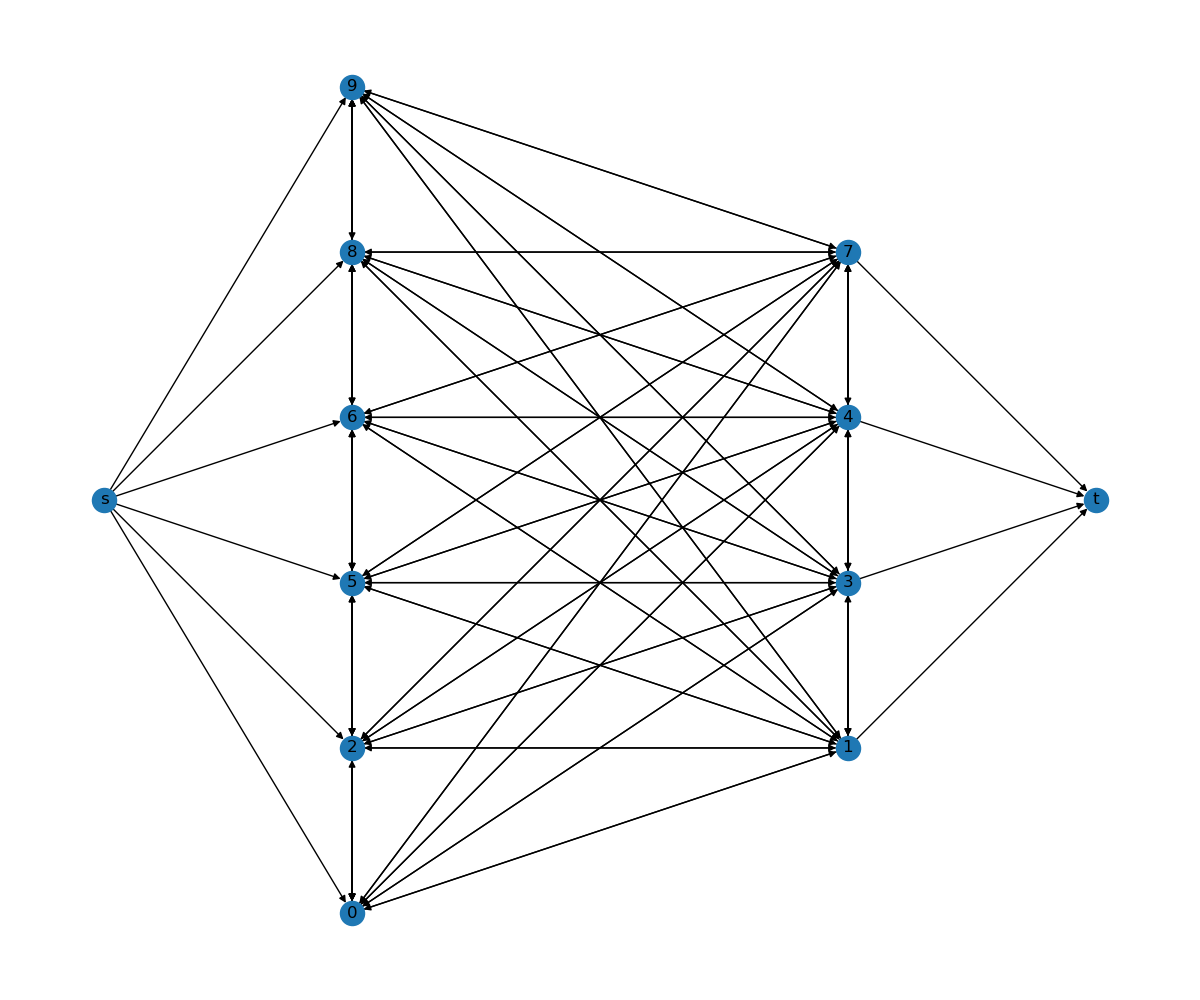
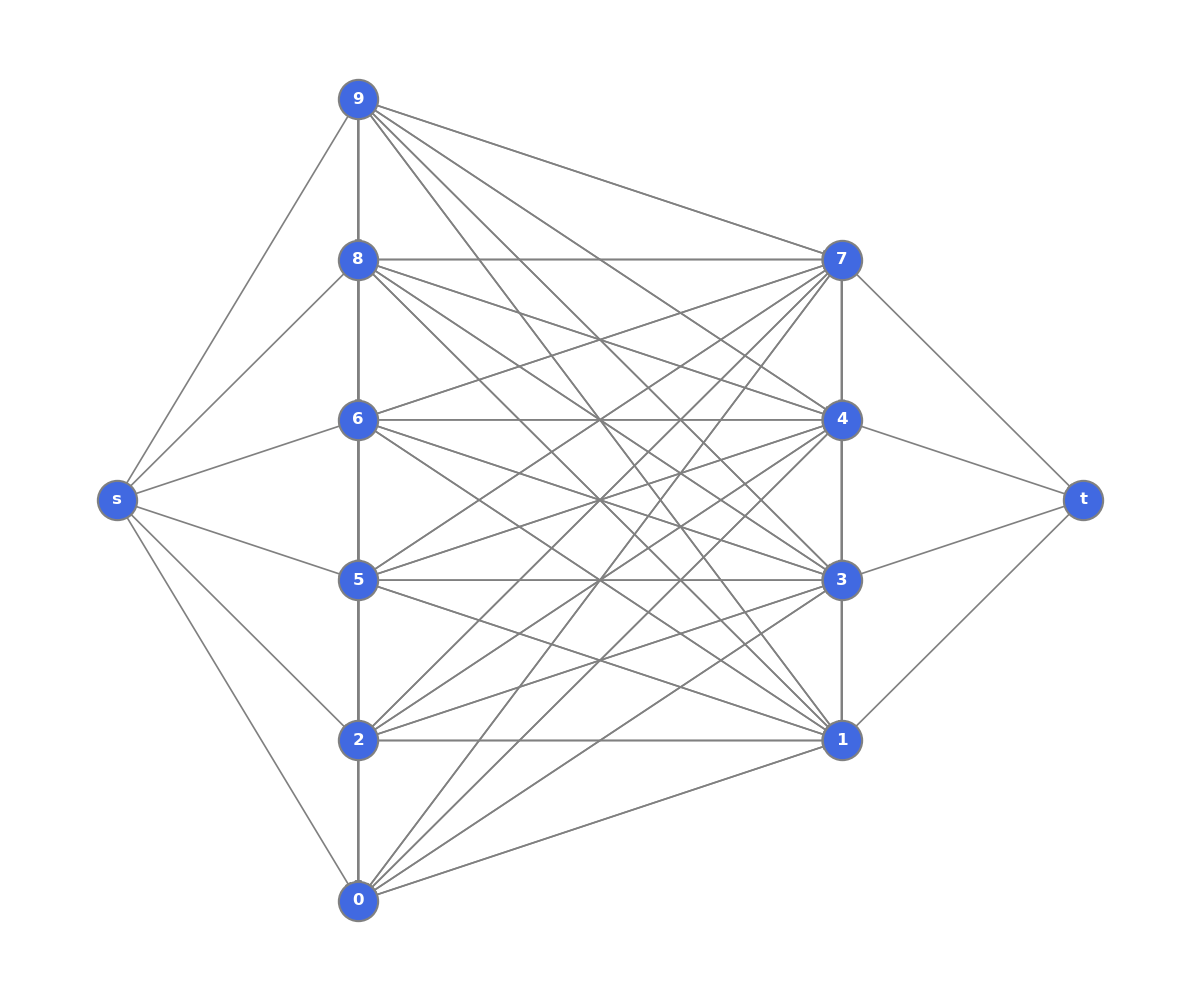
made plots look nice

diff --git a/hw1/hw1.py b/hw1/hw1.py
@@ -1,11 +1,22 @@
 import numpy as np
 import matplotlib.pyplot as plt
 
-from HW1_2026.utils import flow_layout, draw_flow
+from utils_altered import flow_layout, draw_flow
+
+def draw_graph(graph, positions):
+    # drawing nodes
+    nx.draw_networkx_nodes(graph, positions, node_size = 800, node_color = 'royalblue', edgecolors = 'gray', linewidths=1.5)
+    # drawing node labels
+    nx.draw_networkx_labels(graph, positions, font_size = 12, font_color = 'white', font_weight = 'bold')
+    # drawing edges
+    nx.draw_networkx_edges(graph, positions, edge_color = 'gray', width = 1.2)
+    
+    plt.tight_layout()
+    plt.axis('off')
 
 import networkx as nx
 if __name__ == "__main__":
-    print('-----------------------------------------------------')
+    print('-----------------------------------------------------') 
     print('Problem 4')
     print("\n=====================================")
     print("     Part (a): Plotting IEEE30       ")
@@ -13,10 +24,13 @@ if __name__ == "__main__":
     fig = plt.figure(figsize=  (12, 10))
     graph30 = nx.read_edgelist("HW1_2026/ieee30.edgelist")
     positions30 = nx.spring_layout(graph30, k = 0.3, seed = 2026, iterations = 50)
-    nx.draw(graph30, positions30, with_labels=True)
+    
+    draw_graph(graph30, positions30)
+    
     plt.savefig("ieee30_graph.png")
     plt.close()
     
+    # Finding degree and density of plot
     degree_sequence = [d for n,d in graph30.degree]
     max_degree = max(degree_sequence)
     print(f"Maximum degree: {max(degree_sequence)} at node(s): {[n+1 for n,d in enumerate(degree_sequence) if d == max_degree]}")
@@ -28,7 +42,9 @@ if __name__ == "__main__":
     fig = plt.figure(figsize=(12, 10))
     graph123 = nx.read_weighted_edgelist("HW1_2026/ieee123.edgelist")
     positions123 = nx.nx_agraph.graphviz_layout(graph123, prog="dot")
-    nx.draw(graph123, positions123, with_labels=True, font_size=15)
+    
+    draw_graph(graph123, positions123)
+    
     plt.savefig('ieee123_graph.png')
     plt.close()
     
@@ -60,8 +76,11 @@ if __name__ == "__main__":
     cycle_path = nx.find_cycle(graph30)
     print(f'IEEE30 Cycle Example:\t{cycle_path}')
     fig = plt.figure(figsize=  (12, 10))
-    nx.draw(graph30, positions30, with_labels=True)
-    nx.draw_networkx_edges(graph30, positions30, edgelist=cycle_path, edge_color = 'green', width=10)
+    draw_graph(graph30, positions30)
+    
+    # drawing nodes and edges in path
+    nx.draw_networkx_nodes(graph30, positions30, nodelist=[u for u,v in cycle_path], edgecolors='green', node_size=800, linewidths=3)
+    nx.draw_networkx_edges(graph30, positions30, edgelist=cycle_path, edge_color = 'green', width=5)
     plt.savefig('ieee30_cycle.png')
     plt.close()    
         
@@ -75,15 +94,15 @@ if __name__ == "__main__":
     print("=====================================")
     
     cut_edges = nx.minimum_edge_cut(graph30)
-    bridges = nx.bridges(graph30)
+    bridges = list(nx.bridges(graph30))
     fig = plt.figure(figsize = (12, 10))
-    nx.draw(graph30, positions30, with_labels=True)
-    nx.draw_networkx_edges(graph30, positions30, edgelist=list(bridges), edge_color = 'green', width=10)
+    draw_graph(graph30, positions30)  
+    nx.draw_networkx_edges(graph30, positions30, edgelist=bridges, edge_color = 'red', width=5)
     plt.savefig('ieee30_cuts.png')
     plt.close()
     
     print(f'IEEE30 Cut Example:\t{list(cut_edges)}')
-    print(f'IEEE30 Bridge Example:\t{list(bridges)}')
+    print(f'IEEE30 Bridge Example:\t{bridges}')
 
     print("\n=====================================")
     print("     Part (f): Handshaking Theorem   ")
@@ -105,8 +124,8 @@ if __name__ == "__main__":
     
     print(f" The shortest path from {initial_node} to {terminal_node} is {shortest_path}")
     fig = plt.figure(figsize=  (12, 10))
-    nx.draw(graph30, positions30, with_labels = True)
-    nx.draw_networkx_edges(graph30, positions30, edgelist =shortest_path_edges, edge_color='green', width = 10)
+    draw_graph(graph30, positions30)
+    nx.draw_networkx_edges(graph30, positions30, edgelist =shortest_path_edges, edge_color='green', width = 5)
     plt.savefig('ieee30_shortest_path.png')
     
     plt.close()
@@ -142,10 +161,12 @@ if __name__ == "__main__":
         
     pos = flow_layout(G, 's', 't')
     fig = plt.figure(figsize = (12, 10))
-    nx.draw(G, pos, with_labels=True)
+    draw_graph(G, pos)
     plt.savefig('flow_network.png')
     plt.close()
     
     max_flow = nx.maximum_flow(G, 's', 't')
-    draw_flow(G, max_flow[1], dict(figsize = (12, 10)))
+    draw_flow(G, max_flow[1], dict(figsize = (12, 10)), dict(font_size = 20))
+    plt.axis('off')
+    plt.tight_layout()
     plt.savefig('flow_network_solution.png')

diff --git a/hw1/utils_altered.py b/hw1/utils_altered.py
@@ -1,0 +1,81 @@
+import networkx as nx
+from typing import Union
+import numpy as np
+import pandas as pd
+import matplotlib.pyplot as plt
+
+
+def flow_layout(graph: nx.DiGraph, _s: Union[str, int] = "s", _t: Union[str, int] = "t") -> dict:
+    """Position nodes other than the source and target in two straight lines.
+    The left line includes all the successors of the source node and the right line
+    includes all the predecessors of the target node. The source node is then placed
+    to the left of the midpoint of the first line and the target node is placed to the
+    right of the midpoint of the second line.
+
+    Args:
+        graph (nx.DiGraph): The flow network that must include the passed source node _s
+        and the passed target node _t.
+        _s (Union[str, int], optional): The source node. Defaults to "s".
+        _t (Union[str, int], optional): The target node. Defaults to "t".
+
+    Returns:
+        dict: A dictionary of positions keyed by node. 
+
+    Examples::
+        >>> G = <a flow network>
+        >>> pos = flow_layout(G, "s", "t")
+        >>> nx.draw(G, pos=pos)
+
+    """
+    pos = nx.bipartite_layout(graph, graph.successors(_s))
+    # t centers
+    s_center = np.mean([pos[i][1] for i in graph.successors(_s)])
+    t_center = np.mean([pos[i][1] for i in graph.predecessors(_t)])
+    diff = t_center - s_center
+    for i in graph.predecessors(_t):
+        pos[i][1] -= diff
+    t_center -= diff
+    pos[_s] = [np.mean([pos[i][0]
+                        for i in graph.successors(_s)]) - 1, s_center]
+    pos[_t] = [np.mean([pos[i][0]
+                        for i in graph.predecessors(_t)]) + 1, t_center]
+    return pos
+
+
+def draw_flow(graph: nx.DiGraph, flowDict: dict = None, fig_kwargs: dict = {}, nx_kwargs: dict = {}) -> None:
+    """Draw the flow network highlighting the flows. 
+
+    Args:
+        graph (nx.DiGraph): The flow graph.
+        flowDict (dict, optional): The flowDict. Defaults to None. If nothing is passed, 
+        a flow dictionary will be calculated using nx.maximum_flow using source node
+        "s", target node "t", and capacity attribute "capacity".
+        fig_kwargs (dict, optional): Extra arguments to control the figure. Defaults to {}.
+        nx_kwargs (dict, optional): Extra arguments to control the network figures. Defaults to {}.
+
+    Examples::
+        Without passing a flow dictionary:
+            >>> draw_flow(G, fig_kwargs={"figsize":(10, 10)}, nx_kwargs={"font_size": 8})
+        Without passing a flow dictionary:
+            >>> G = <a flow network>
+            >>> flowVal, flowDict = nx.maximum_flow(G, "s", "t", capacity="capacity")
+            >>> draw_flow(G, flowDict=flowDict, fig_kwargs={"figsize":(10, 10)}, nx_kwargs={"font_size": 8})
+    """
+    if flowDict is None:
+        flowVal, flowDict = nx.maximum_flow(
+            graph, "s", "t", capacity="capacity")
+    pos = nx.get_edge_attributes(graph, "pos")
+    if not pos:
+        pos = flow_layout(graph)
+    H = nx.from_pandas_adjacency(
+        pd.DataFrame(flowDict, index=graph.nodes()).fillna(
+            0).T, create_using=nx.DiGraph
+    )
+    plt.figure(**fig_kwargs)
+    nx.draw_networkx_nodes(graph, pos, node_size = 800, node_color = 'royalblue', edgecolors = 'gray', linewidths=1.5)
+    nx.draw_networkx_labels(graph, pos, font_size = 12, font_color = 'white', font_weight = 'bold')
+    nx.draw_networkx_edges(graph, pos, edge_color="grey", alpha=0.15)
+    nx.draw_networkx_edges(H, pos, edge_color="red", width = 2)
+    nx.draw_networkx_edge_labels(
+        H, pos, edge_labels=nx.get_edge_attributes(H, "weight"), **nx_kwargs)
+    # plt.show()
